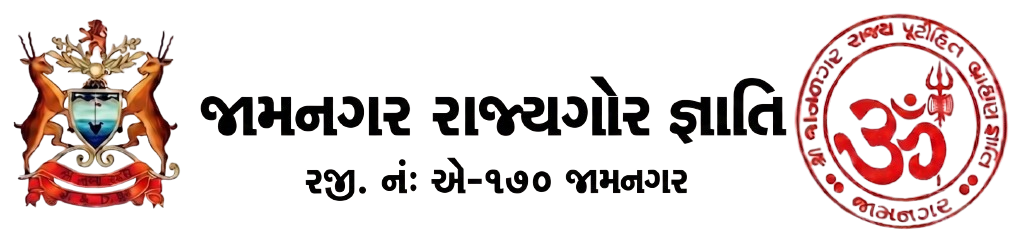
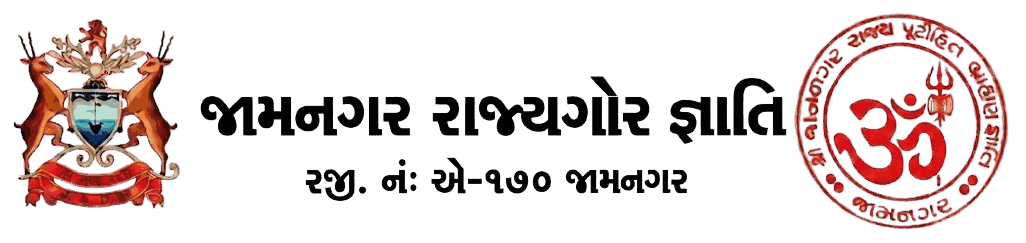
--Admin_add_otp_login

diff --git a/lib/screen/membership/registration_stepper_screen.dart b/lib/screen/membership/registration_stepper_screen.dart
@@ -196,9 +196,9 @@ class RegistrationStepperScreen extends GetView<RegistrationController> {
     }
   }
 
-  // ==========================================
-  // 📱 Step 1: Mobile & Email Verification
-  // ==========================================
+// ==========================================
+// 📱 Step 1: Mobile & Email Verification (Final Fixed)
+// ==========================================
   Widget _buildMobileStep(BuildContext context) {
     return Column(
       children: [
@@ -209,170 +209,133 @@ class RegistrationStepperScreen extends GetView<RegistrationController> {
         const Text("લૉગિન અથવા નવી નોંધણી માટે વિગતો ભરો", style: TextStyle(fontSize: 13, color: Colors.grey)),
         const SizedBox(height: 30),
 
+        // ૧. મોબાઈલ નંબર (પહેલા નંબર પર)
         _buildTextField(label: "મોબાઈલ નંબર *", controller: controller.phoneController, prefix: "+91 "),
         const SizedBox(height: 16),
 
-        _buildTextField(label: "ઈમેલ આઈડી *", controller: controller.emailController, icon: Icons.email_outlined),
+        // ૨. OTP નું ફિલ્ડ (મોબાઈલની નીચે)
+        _buildTextField(label: "OTP દાખલ કરો *", controller: controller.otpController),
+        const SizedBox(height: 16),
 
-        // ➔ ⚡ ⚡ જૂના સભ્ય માટેનું લોગિન પાસવર્ડ બોક્સ (શો/હાઇડ સાથે)
+        // ➔ ⚡ સરસ મજાની "અથવા" (OR) લાઇન
+        Row(
+          children: const [
+            Expanded(child: Divider(thickness: 1, color: Colors.grey)),
+            Padding(
+              padding: EdgeInsets.symmetric(horizontal: 16),
+              child: Text("અથવા", style: TextStyle(color: Colors.grey, fontSize: 12)),
+            ),
+            Expanded(child: Divider(thickness: 1, color: Colors.grey)),
+          ],
+        ),
+        const SizedBox(height: 16),
+
+        // ૩. ઈમેલ આઈડી
+        _buildTextField(label: "ઈમેલ આઈડી *", controller: controller.emailController, icon: Icons.email_outlined),
+        const SizedBox(height: 16),
+
+        // ૪. ➔ ⚡ ફિક્સ: જો યુઝરે OTP ફિલ્ડ ખાલી રાખ્યું હોય અને ઈમેલથી લોગિન કરવું હોય તો જ પાસવર્ડ બતાવવો
         Obx(() {
+          // જો OTP નાખ્યો હોય તો પાસવર્ડ હાઈડ જ રહેશે
+          if (controller.otpController.text.trim().isNotEmpty) {
+            return const SizedBox.shrink();
+          }
+
           if (controller.isOldUser.value) {
             return Padding(
-              padding: const EdgeInsets.only(top: 16.0),
-              child: Column( // ➔ Padding ની અંદર Column લીધું જેથી બટન નીચે આવે
-                children: [
-                  TextField(
-                    controller: controller.passwordController,
-                    obscureText: controller.isPasswordHidden.value,
-                    style: const TextStyle(color: Colors.black87),
-                    decoration: InputDecoration(
-                      labelText: "તમારો લોગિન પાસવર્ડ દાખલ કરો *",
-                      prefixIcon: const Icon(Icons.lock_outline),
-                      suffixIcon: IconButton(
-                        icon: Icon(controller.isPasswordHidden.value ? Icons.visibility_off_outlined : Icons.visibility_outlined),
-                        onPressed: () => controller.togglePasswordVisibility(),
-                      ),
-                      filled: true,
-                      fillColor: AppColors.background,
-                      border: OutlineInputBorder(borderRadius: BorderRadius.circular(8), borderSide: BorderSide.none),
-                    ),
+              padding: const EdgeInsets.only(bottom: 16.0),
+              child: TextField(
+                controller: controller.passwordController,
+                obscureText: controller.isPasswordHidden.value,
+                style: const TextStyle(color: Colors.black87),
+                decoration: InputDecoration(
+                  labelText: "તમારો લોગિન પાસવર્ડ દાખલ કરો *",
+                  prefixIcon: const Icon(Icons.lock_outline),
+                  suffixIcon: IconButton(
+                    icon: Icon(controller.isPasswordHidden.value ? Icons.visibility_off_outlined : Icons.visibility_outlined),
+                    onPressed: () => controller.togglePasswordVisibility(),
                   ),
-
-                  // ➔ ⚡ અહીં OTP લોગિનનું બટન ઉમેરો
-                  const SizedBox(height: 10),
-                  TextButton.icon(
-                    onPressed: () {
-                      // 1. મોબાઈલ નંબર ચેક કરો
-                      if (controller.phoneController.text.trim().length >= 10) {
-                        // 2. OTP મોકલો
-                        controller.openOtpWidget(controller.phoneController.text.trim());
-                        controller.isOtpSent.value = true;
-                        Get.snackbar("સફળ", "OTP મોકલાઈ ગયો છે, કૃપા કરીને નીચેના બોક્સમાં નાખો!");
-                      } else {
-                        Get.snackbar("ભૂલ", "સાચો મોબાઈલ નંબર દાખલ કરો.");
-                      }
-                    },
-                    icon: const Icon(Icons.sms, size: 16),
-                    label: const Text("પાસવર્ડ નથી યાદ? OTP દ્વારા લોગિન કરો"),
-                  ),
-                ],
+                  filled: true,
+                  fillColor: AppColors.background,
+                  border: OutlineInputBorder(borderRadius: BorderRadius.circular(8), borderSide: BorderSide.none),
+                ),
               ),
             );
-          }
-          return const SizedBox.shrink();
-        }),
-
-        // ➔ ⚡ ⚡ નવા સભ્ય માટે પાસવર્ડ સેટિંગ બોક્સ (શો/હાઇડ સાથે)
-        Obx(() {
-          if (!controller.isOldUser.value && controller.currentStep.value == 0) {
+          } else if (!controller.isOldUser.value && controller.currentStep.value == 0) {
             return Padding(
-              padding: const EdgeInsets.only(top: 16.0),
+              padding: const EdgeInsets.only(bottom: 16.0),
               child: Column(
                 crossAxisAlignment: CrossAxisAlignment.start,
                 children: [
-                  const SizedBox(height: 10),
                   const Row(
                     children: [
                       Icon(Icons.lock_open_rounded, color: Colors.orange, size: 18),
-                      const SizedBox(width: 6),
+                      SizedBox(width: 6),
                       Text("નવો લોગિન પાસવર્ડ સેટ કરો *", style: TextStyle(fontWeight: FontWeight.bold, fontSize: 13, color: AppColors.heading)),
                     ],
                   ),
                   const Divider(height: 16),
-              _buildResponsiveRow([
-                TextField(
-                  controller: controller.passwordController,
-                  obscureText: controller.isPasswordHidden.value,
-                  decoration: InputDecoration(
-                    labelText: "પાસવર્ડ બનાવો *",
-                    prefixIcon: const Icon(Icons.lock_outline),
-                    suffixIcon: IconButton(
-                      icon: Icon(controller.isPasswordHidden.value ? Icons.visibility_off_outlined : Icons.visibility_outlined),
-                      onPressed: () => controller.togglePasswordVisibility(),
+                  _buildResponsiveRow([
+                    TextField(
+                      controller: controller.passwordController,
+                      obscureText: controller.isPasswordHidden.value,
+                      decoration: InputDecoration(
+                        labelText: "પાસવર્ડ બનાવો *",
+                        prefixIcon: const Icon(Icons.lock_outline),
+                        suffixIcon: IconButton(
+                          icon: Icon(controller.isPasswordHidden.value ? Icons.visibility_off_outlined : Icons.visibility_outlined),
+                          onPressed: () => controller.togglePasswordVisibility(),
+                        ),
+                        filled: true,
+                        fillColor: AppColors.background,
+                        border: OutlineInputBorder(borderRadius: BorderRadius.circular(8), borderSide: BorderSide.none),
+                      ),
                     ),
-                    filled: true,
-                    fillColor: AppColors.background,
-                    border: OutlineInputBorder(borderRadius: BorderRadius.circular(8), borderSide: BorderSide.none),
-                  ),
-                ),
-                TextField(
-                  controller: controller.confirmPasswordController,
-                  obscureText: controller.isConfirmPasswordHidden.value,
-                  decoration: InputDecoration(
-                    labelText: "કન્ફર્મ પાસવર્ડ *",
-                    prefixIcon: const Icon(Icons.lock_clock_outlined),
-                    suffixIcon: IconButton(
-                      icon: Icon(controller.isConfirmPasswordHidden.value ? Icons.visibility_off_outlined : Icons.visibility_outlined),
-                      onPressed: () => controller.toggleConfirmPasswordVisibility(),
+                    TextField(
+                      controller: controller.confirmPasswordController,
+                      obscureText: controller.isConfirmPasswordHidden.value,
+                      decoration: InputDecoration(
+                        labelText: "કન્ફર્મ પાસવર્ડ *",
+                        prefixIcon: const Icon(Icons.lock_clock_outlined),
+                        suffixIcon: IconButton(
+                          icon: Icon(controller.isConfirmPasswordHidden.value ? Icons.visibility_off_outlined : Icons.visibility_outlined),
+                          onPressed: () => controller.toggleConfirmPasswordVisibility(),
+                        ),
+                        filled: true,
+                        fillColor: AppColors.background,
+                        border: OutlineInputBorder(borderRadius: BorderRadius.circular(8), borderSide: BorderSide.none),
+                      ),
                     ),
-                    filled: true,
-                    fillColor: AppColors.background,
-                    border: OutlineInputBorder(borderRadius: BorderRadius.circular(8), borderSide: BorderSide.none),
-                  ),
-                ),
-              ], context),
+                  ], context),
                 ],
-
               ),
             );
           }
           return const SizedBox.shrink();
         }),
 
-        const SizedBox(height: 30),
-
-        // બટનની ઉપર આ કોડ ઉમેરો
-        Obx(() => controller.isOtpSent.value
-            ? Padding(
-          padding: const EdgeInsets.only(top: 16.0),
-          child: _buildTextField(label: "OTP દાખલ કરો", controller: controller.otpController),
-        )
-            : const SizedBox.shrink()),
-
+        // ૫. ફાઈનલ સબમિટ બટન
         Obx(() => ElevatedButton(
           style: ElevatedButton.styleFrom(
             backgroundColor: AppColors.buttonPrimary,
             minimumSize: const Size(double.infinity, 50),
             shape: RoundedRectangleBorder(borderRadius: BorderRadius.circular(8)),
           ),
-    //       onPressed: controller.isLoading.value
-    //           ? null
-    //           : () async {
-    // if (!controller.isOtpSent.value) {
-    //         // ➔ મોબાઈલ નંબર વેલિડેટ કરો
-    //         if (controller.phoneController.text.trim().length < 10) {
-    //           Get.snackbar("ભૂલ ❌", "સાચો મોબાઈલ નંબર દાખલ કરો!");
-    //           return;
-    //         }
-    //
-    //         // ➔ OTP વિજેટ ઓપન કરવા માટે JS કોલ કરો
-    //         await controller.openOtpWidget(controller.phoneController.text.trim());
-    //         controller.isOtpSent.value = true; // ફિલ્ડ બતાવવા માટે
-    // } else {
-    //   // ➔ ૨. OTP વેરીફાય કરવા માટે
-    //   await controller.handleVerifyOtp(
-    //       controller.currentReqId.value,
-    //       controller.otpController.text.trim());
-    // }
-    //         // if (controller.isOldUser.value) {
-    //         //   controller.directLoginFromStepper();
-    //         // } else {
-    //         //   if (controller.passwordController.text.trim().isEmpty) {
-    //         //     controller.checkUserStatus();
-    //         //   } else {
-    //         //     if (controller.passwordController.text.trim() != controller.confirmPasswordController.text.trim()) {
-    //         //       Get.snackbar("પાસવર્ડ ભૂલ ❌", "બંને પાસવર્ડ એકબીજા સાથે મેચ થતા નથી!",
-    //         //           backgroundColor: Colors.red.shade800, colorText: Colors.white);
-    //         //       return;
-    //         //     }
-    //         //     controller.nextStep();
-    //         //   }
-    //         // }
-    //       },
           onPressed: controller.isLoading.value ? null : () async {
+            // ➔ ૧. જો યુઝરે મોબાઈલ નંબર નાખ્યો હોય અને OTP મોકલવો હોય અથવા વેરિફાઈ કરવો હોય
+            if (controller.phoneController.text.trim().length >= 10 && controller.otpController.text.trim().isEmpty) {
+              if (!controller.isOtpSent.value) {
+                await controller.openOtpWidget(controller.phoneController.text.trim());
+                controller.isOtpSent.value = true;
+                Get.snackbar("સફળ", "OTP મોકલાઈ ગયો છે!");
+              } else {
+                Get.snackbar("ભૂલ ❌", "કૃપા કરીને OTP દાખલ કરો!");
+              }
+              return;
+            }
 
-            // ➔ ૧. જો OTP મોકલેલ હોય અને યુઝર OTP ફિલ્ડમાં કંઈક નાખ્યું હોય (OTP લોગિન મોડ)
-            if (controller.isOtpSent.value && controller.otpController.text.trim().isNotEmpty) {
+            // ➔ ૨. જો યુઝરે OTP નાખી દીધો હોય તો વેરિફાઈ કરો
+            if (controller.otpController.text.trim().isNotEmpty) {
               await controller.handleVerifyOtp(
                   controller.currentReqId.value,
                   controller.otpController.text.trim()
@@ -380,27 +343,26 @@ class RegistrationStepperScreen extends GetView<RegistrationController> {
               return;
             }
 
-            // ➔ ૨. જો જૂનો યુઝર પાસવર્ડથી લોગિન કરવા માંગતો હોય
+            // ➔ ૩. જો ઈમેલ અને પાસવર્ડથી લોગિન કરવું હોય
             if (controller.isOldUser.value) {
               await controller.directLoginFromStepper();
-            }
-            // ➔ ૩. જો નવો યુઝર હોય
-            else {
-              if (!controller.isOtpSent.value) {
-                await controller.openOtpWidget(controller.phoneController.text.trim());
-                controller.isOtpSent.value = true;
+            } else {
+              if (controller.passwordController.text.trim().isEmpty) {
+                controller.checkUserStatus();
               } else {
-                await controller.handleVerifyOtp(
-                    controller.currentReqId.value,
-                    controller.otpController.text.trim()
-                );
+                if (controller.passwordController.text.trim() != controller.confirmPasswordController.text.trim()) {
+                  Get.snackbar("પાસવર્ડ ભૂલ ❌", "બંને પાસવર્ડ એકબીજા સાથે મેચ થતા નથી!",
+                      backgroundColor: Colors.red.shade800, colorText: Colors.white);
+                  return;
+                }
+                controller.nextStep();
               }
             }
           },
           child: controller.isLoading.value
               ? const SizedBox(width: 24, height: 24, child: CircularProgressIndicator(color: Colors.white, strokeWidth: 2.5))
               : Text(
-              controller.isOldUser.value ? "લોગિન કરો" : (controller.passwordController.text.trim().isEmpty ? "ચકાસણી કરો" : "આગળ વધો ➔"),
+              controller.otpController.text.trim().isNotEmpty ? "OTP વેરિફાઈ કરો ➔" : (controller.isOldUser.value ? "લોગિન કરો" : "આગળ વધો ➔"),
               style: const TextStyle(color: Colors.white, fontWeight: FontWeight.bold, fontSize: 16)
           ),
         )),